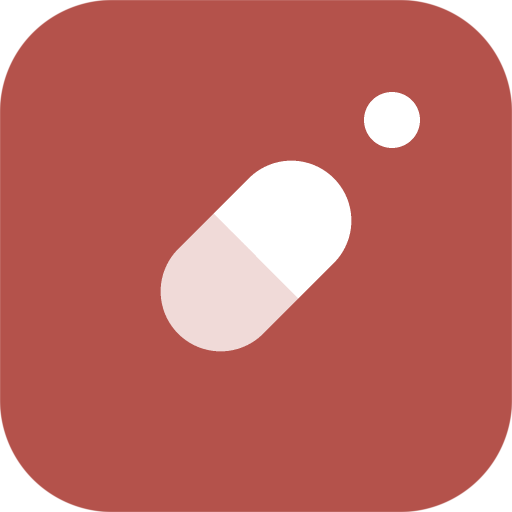
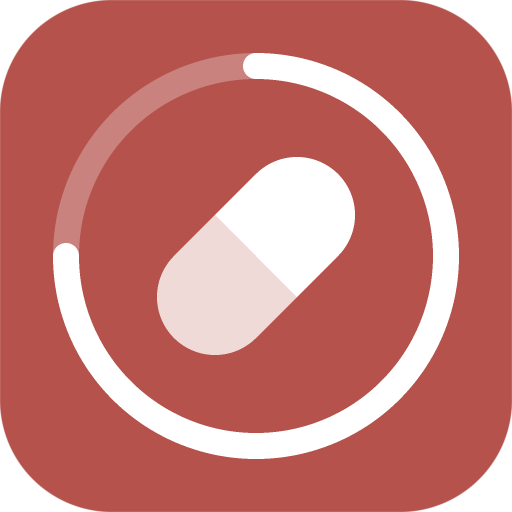
앱 아이콘 리디자인: 시계 느낌 진행 링 + 대각선 알약
- 과녁처럼 보이던 점 요소 제거
- 원형 링을 시계/타이머 느낌의 270° 진행 호(둥근 끝)로: 흐린 트랙 위에
  흰 호가 12시에서 시계방향으로 도는 형태 (앱의 카운트다운 링과 동일 모티프)
- 알약을 더 크게 (전체 폭 232px, 흰색+연분홍 반반 캡슐)
- SVG·192/512 PNG·마스커블 전부 재생성, 서비스워커 캐시 v20

Claude-Session: https://claude.ai/code/session_01VvbYg6aS5AvmEVRrfytnbc

diff --git a/sw.js b/sw.js
@@ -1,5 +1,5 @@
 /* 복약 트래커 서비스워커 — 오프라인 캐싱 */
-var CACHE_NAME = 'med-tracker-v19';
+var CACHE_NAME = 'med-tracker-v20';
 var ASSETS = [
   './',
   './index.html',